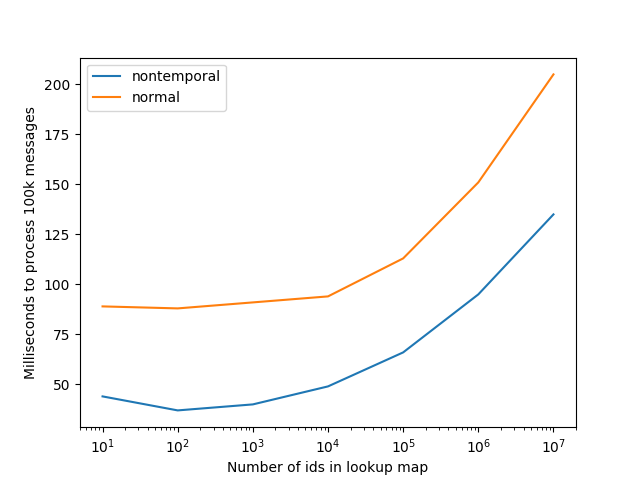
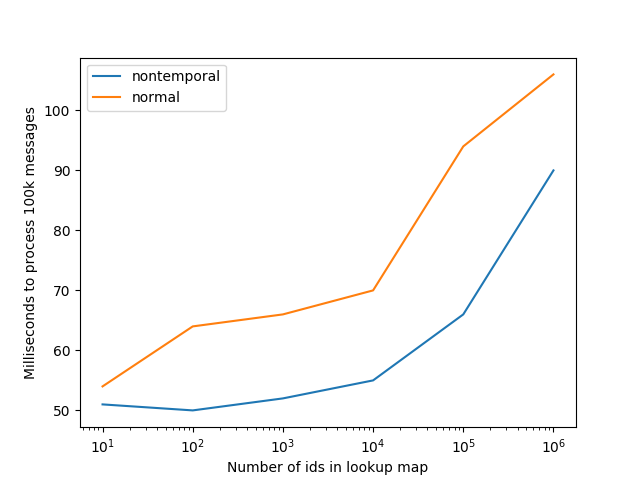
Improve and add example benchmarks

diff --git a/_posts/2018-08-26-nontemporal.md b/_posts/2018-08-26-nontemporal.md
@@ -175,7 +175,7 @@ can access nontemporal loads and have a good multicore story
 
 Consider this situation: You have some function which receives a long message containing a user ID, looks up that user in some datastructure,
 and forwards the result on to some different processing pipeline.
-Furthermore, you must keep the last 200MB of received messages in a buffer to dump upon a rare failure case.
+Furthermore, you must keep the last N received messages in a buffer to dump upon a rare failure case.
 We'll benchmark this scenario and see how using nontemporal stores can greatly reduce the cache pressure of this buffer and keep the lookup datastructure in cache. The basic outline of our test code will be:
 
 ``` c++
@@ -206,10 +206,14 @@ void process_message(const message &m) {
 }
 ```
 
-We'll adjust the number of ids in the map (and in the message) and see how each performs. The results are:
+We'll adjust the number of ids in the map (and in the message) and see how each performs. If we store 50MB of
+old messages, the results for increasing IDs are:
 ![example]({{ "/img/example.png" }})
 
-The nontemporal operations reduce cache pressure in the pointer-chasing tree lookup and we see a performance improvement.<sup><a href="#fnsan" id="ref_san">6</a></sup>
+We can plot the performance difference between the normal and nontemporal stores for varying buffer sizes as well:
+![diff_heat]({{ "/img/diff_heat.png" }})
+
+As we make the message buffer larger, nontemporal operations reduce cache pressure in the tree lookup and we see a performance improvement.<sup><a href="#fnsan" id="ref_san">6</a></sup>
 Although this is essentially a re-demonstration of the <a href="#ref_wal">simple write allocation test</a> done earlier, it is good to confirm in a psuedo-real application.
 Hopefully, this was sufficient to demonstrate that nontemporal operations can have a meaningful use in high performance applications.
 With later posts we'll see how useful nontemporal operations are when we can load past the cache as well.
@@ -225,4 +229,3 @@ With later posts we'll see how useful nontemporal operations are when we can loa
 <br>
 <sup id="fnblock">5. I haven't run benchmarks on what constitutes a block, but almost all sensible cases will be in a memcpy-like setting where the stores are issued as fast as possible<a href="#ref_block" title="Jump back to footnote 5 in the text.">↩</a></sup> 
 <br>
-<sup id="fnsan">6. One can run a sanity check by reducing the size of the buffer and seeing that it removes the cache advantage nontemporal stores have<a href="#ref_san" title="Jump back to footnote 6 in the text.">↩</a></sup> 
